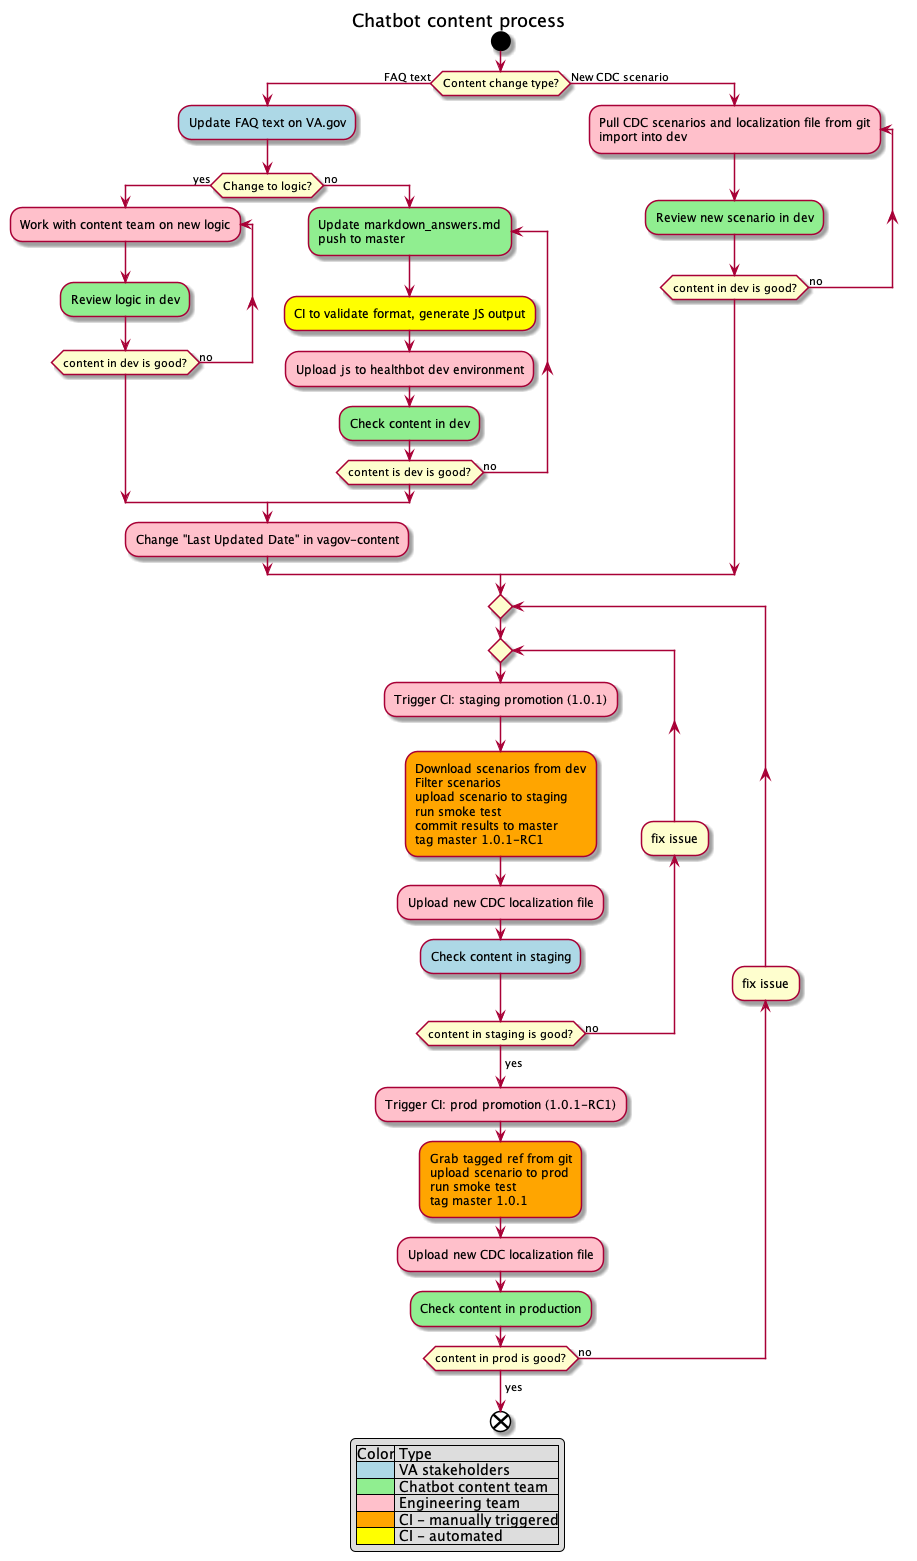
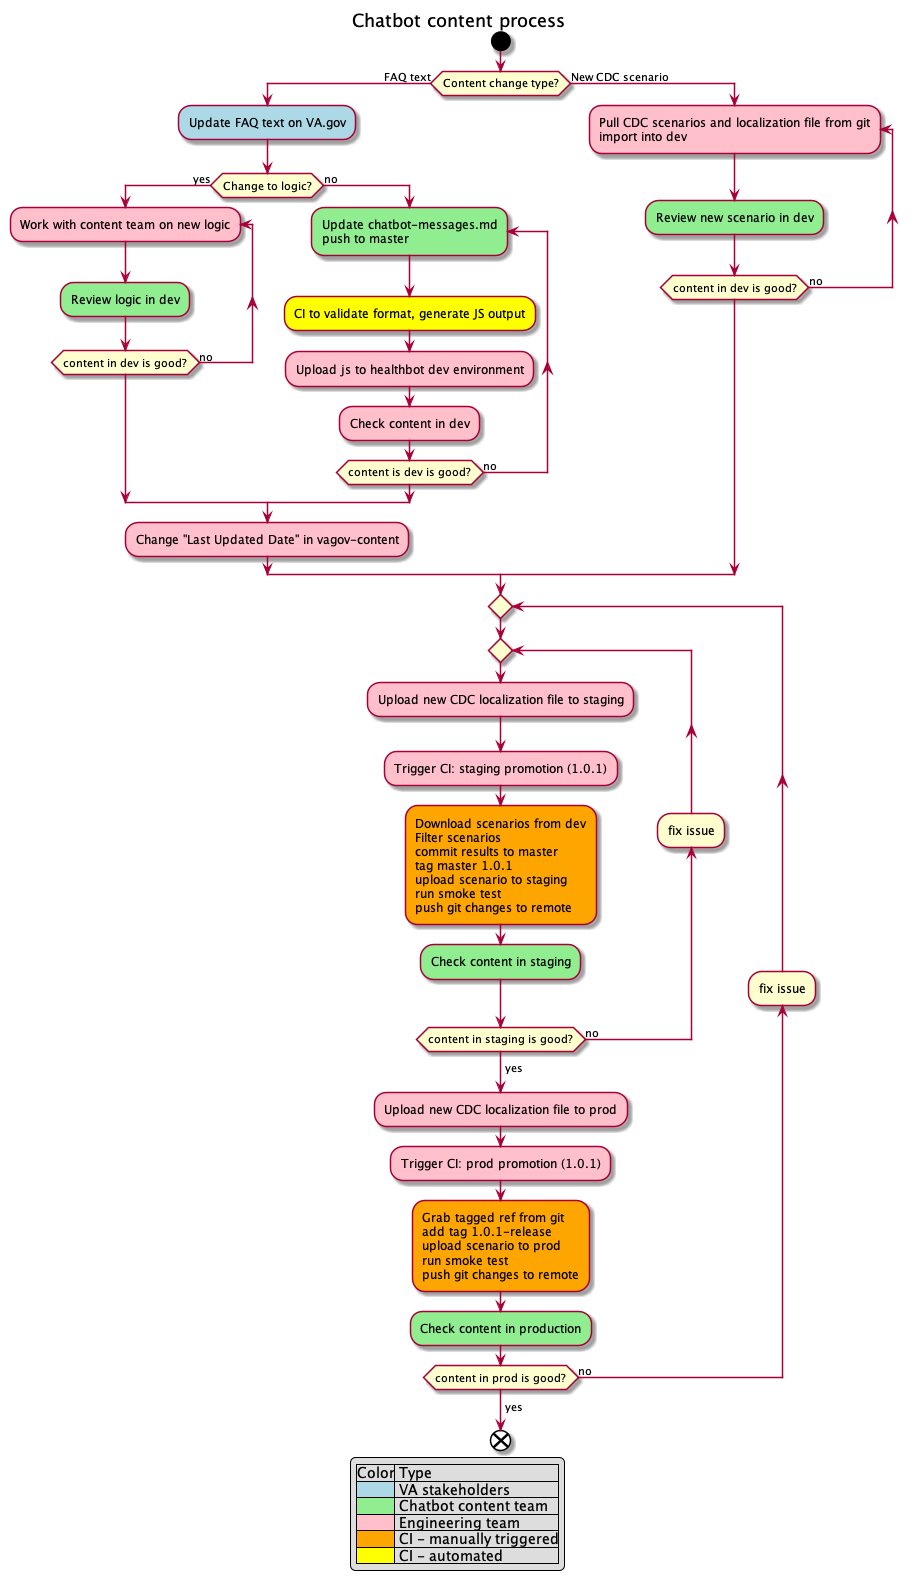
Updates content process to reflect current Jenkins jobs; add Jedda and Sajas to team members

Changed region(s): [[0.0, 0.0615, 0.916, 1.0], [0.3969, 0.0307, 0.9771, 0.2152]]

diff --git a/content-process.md b/content-process.md
@@ -5,22 +5,20 @@
 - The team will review all [`content_change`](https://github.com/department-of-veterans-affairs/covid19-chatbot/issues?q=is%3Aopen+is%3Aissue+label%3Acontent_change) issues as part of the regular grooming process and pull them into the team 
 
 # Process for updating the content within the Chatbot
-- Updated Markdown file is turned into Javascript ([automatically](https://github.com/department-of-veterans-affairs/covid19-chatbot/blob/master/Jenkinsfile#L46))
-- File needs to be uploaded to healthbot (manually) 
-- Once QA passes, automated process to move from DEV →  Staging →  Prod 
-  - A script needs to be created 
-  - Jenkins job to run the script
+- Updated Markdown file is turned into Javascript [automatically by a Jenkins job](https://github.com/department-of-veterans-affairs/covid19-chatbot/blob/master/Jenkinsfile#L46))
+- The javascript file needs to be uploaded to healthbot manually by a developer. At this point, the change will be live in dev. 
+- Once QA in dev passes, there is an automated process to move from DEV →  Staging →  Prod
+    - First, the staging promotion job is run. This gets the latest scenarios from dev, checks them into github with a tag, and pushes them to staging.
+    - Then, if staging check out, the production promotion job is kicked off. This job gets the scenarios from github based on the tag, applies another tag to denote that the content is released, and pushes the scenarios to production.
 - The team will push regular content change requests received to Prod twice every week, on Mondays and Thursdays. Additionally, if there are any critical updates that are required, the team will make such changes available on Prod as needed. 
   - If a Holiday falls on a Monday, content change will happen the following business day
   
 ## Notes 
-- Content changes Waiting for JTF approval - will be in a branch.
+- Content changes Waiting for JTF approval will be placed in a branch.
 - Approved changes will constantly be pushed to Master and we can release every Monday/Thursday
-  
-## Open Questions 
-- Who needs to be involved to get changes from DEV →  Staging →  Prod? Who has access to be able to do this?
+ 
 
 # Content process
-Flow diagram for content changes
+The below diagram details the process for content updates:
 
 ![content-process](content-process.png)

diff --git a/team-members.md b/team-members.md
@@ -2,12 +2,12 @@
 
 ## Microsoft
 - Aaron Barth, Solution Architect
-- Pankaj Surti, Developer + BI and Analytics
-
+- Sajas Salahuddeen, Developer + BI and Analytics
 
 ## ThoughtWorks
 ### Core team
 - Anushya Prasad, Project Manager
+- Jedda Puzon, Product Analyst
 - Karl Brown, Technical Principal
 - Katie Ho, Senior Developer
 - Ramya Ramesh, Product Lead
